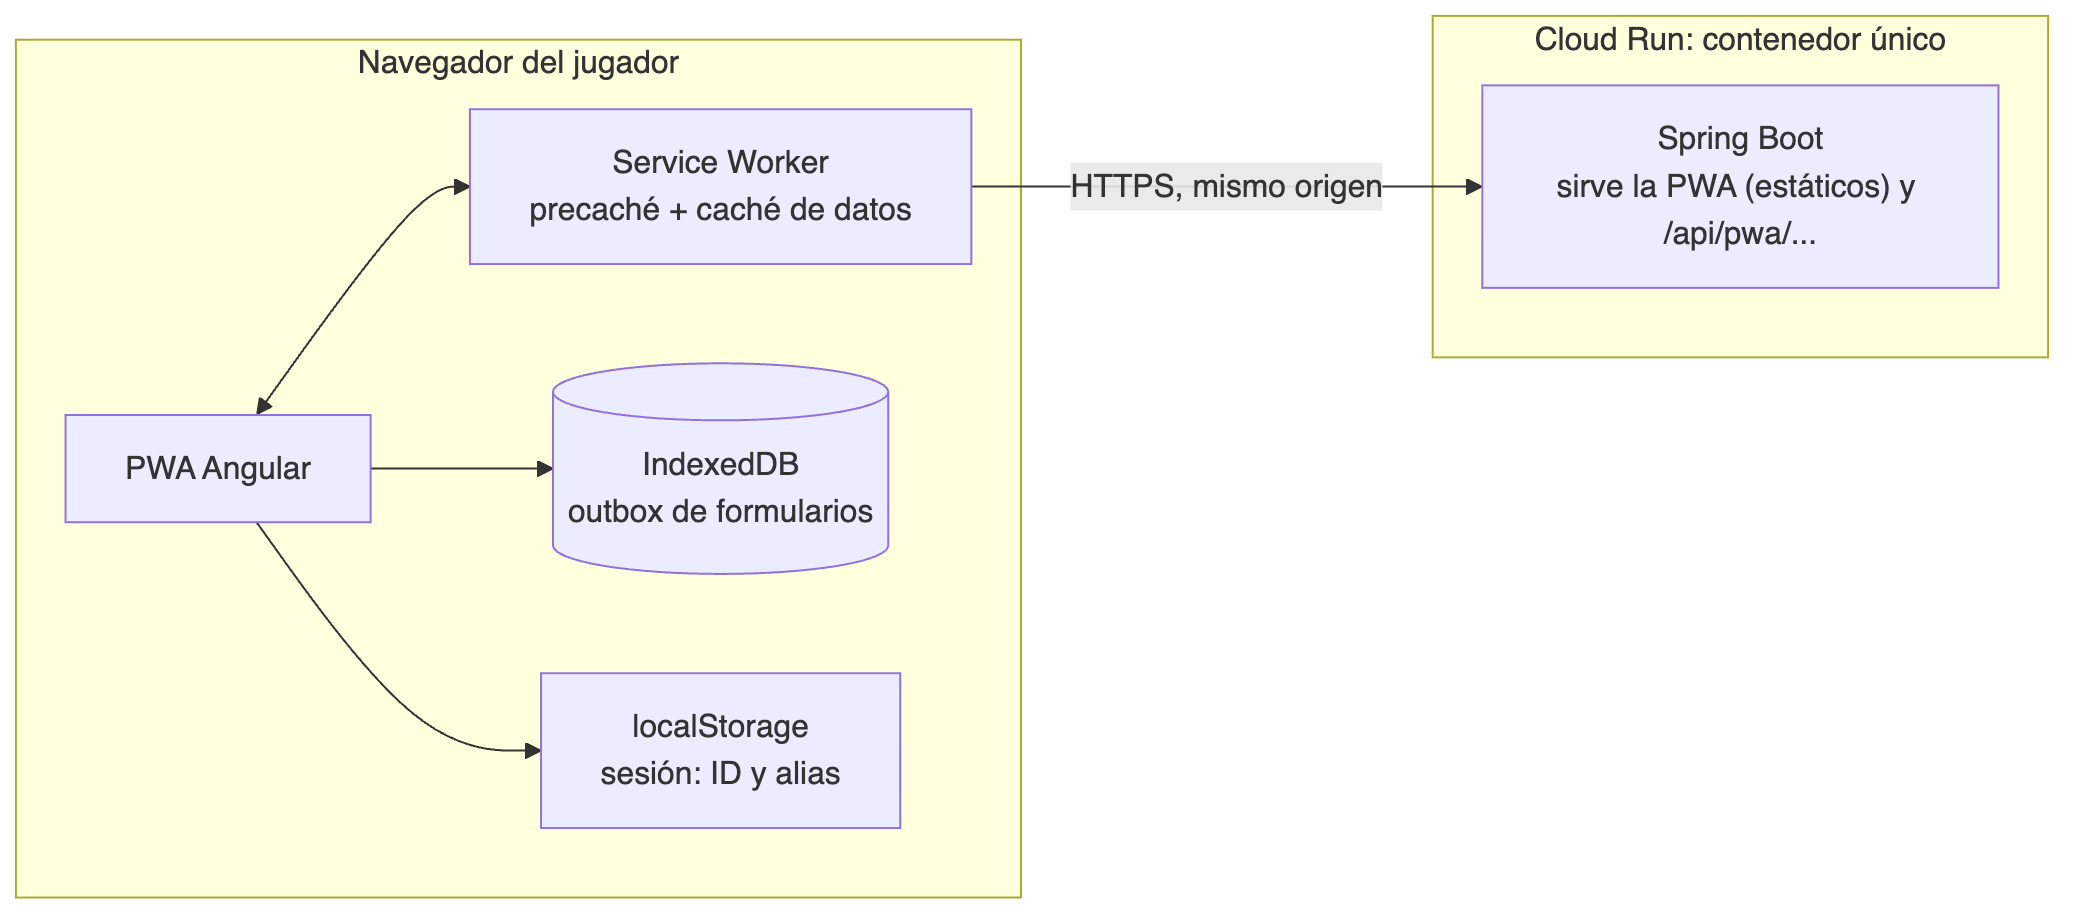
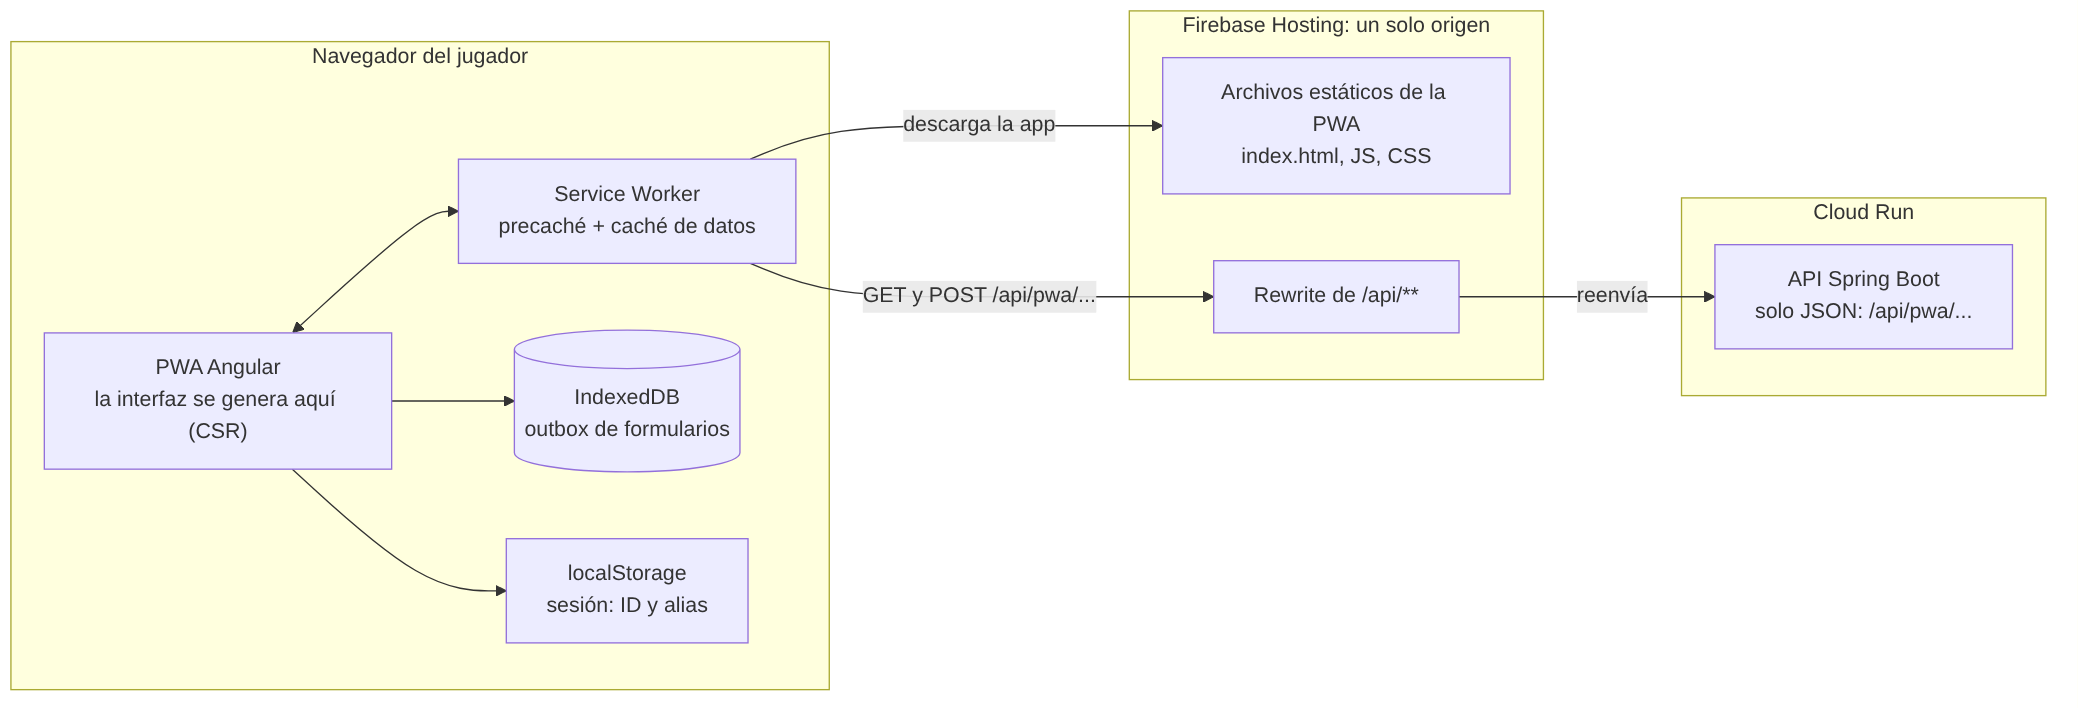
Se hacen actualizaciones de la documentacion de la PWA

diff --git a/README.md b/README.md
@@ -31,8 +31,9 @@ Este documento reúne la **propuesta de diseño** de la PWA y el **estado actual
 | Diseño preproyecto       | Estructura modular (JS/CSS) y diseño adaptativo            | [4.2](#42-capas-del-código) y [8](#8-experiencia-de-usuario-uiux)                                                         |
 | Diseño preproyecto       | Diagramas de la aplicación                                 | [4](#4-arquitectura), [5](#5-modelo-de-datos) y [9](#9-diagramas-de-la-aplicación)                                        |
 | Laboratorio de pruebas 1 | Scripts de carga y limpieza                                | [`sql/`](docs/laboratorio-pruebas/sql)                                                                                    |
-| Laboratorio de pruebas 1 | Consultas antes y después, logs del backend                | [Evidencias](docs/laboratorio-pruebas/README.md#evidencias)                                                               |
-| Laboratorio de pruebas 1 | Interfaz y DevTools (Network, Application, Console)        | [Casos de prueba](docs/laboratorio-pruebas/README.md#casos-de-prueba) y [evidencias](docs/laboratorio-pruebas/evidencias) |
+| Laboratorio de pruebas 1 | Consultas antes y después, logs del backend                | [Evidencias](docs/laboratorio-pruebas/README.md#7-evidencias)                                                             |
+| Laboratorio de pruebas 1 | Interfaz y DevTools (Network, Application, Console)        | [Casos de prueba](docs/laboratorio-pruebas/README.md#6-casos-de-prueba) y [evidencias](docs/laboratorio-pruebas/evidencias) |
+| Laboratorio de pruebas 1 | Requisitos de Integradora: importación de BD, creación y consulta | [Requisitos de Integradora](docs/laboratorio-pruebas/README.md#requisitos-de-proyecta) |
 
 ---
 
@@ -151,7 +152,8 @@ docker run --rm -p 8080:8080 --env-file .env fat-fish-pwa
 
 ![Vista general de la arquitectura](docs/diagramas/arquitectura.png)
 
-- **Un solo origen.** La PWA consume la API con rutas relativas (`/api/pwa/...`), por lo que no requiere CORS. En la propuesta, el mismo contenedor sirve la PWA y la API; en el laboratorio, Nginx cumple ese papel con un proxy hacia la API. En producción, la PWA se aloja en Firebase Hosting y este reenvía `/api/**` a la API en Cloud Run, de modo que el navegador sigue viendo un solo origen ([10.1](#101-despliegue-en-firebase-hosting)).
+- **Renderizado en el cliente (CSR).** La interfaz se genera en el navegador con Angular; la API solo entrega JSON y no sirve archivos de la PWA ([4.4](#44-estrategia-de-renderizado)).
+- **Un solo origen.** La PWA consume la API con rutas relativas (`/api/pwa/...`), por lo que no requiere CORS. Quien entrega la PWA también reenvía `/api` a la API: Firebase Hosting en producción (hacia Cloud Run, [10.1](#101-despliegue-en-firebase-hosting)), Nginx en la imagen de Docker, `scripts/lab-server.mjs` en `npm run lab` y el proxy de `ng serve` en desarrollo ([3](#3-cómo-ejecutarla)). En todos los casos el navegador ve un solo origen.
 - **El Service Worker atiende todas las peticiones** y decide qué responder desde la caché y qué pedir a la red ([7](#7-estrategia-pwa)).
 - **Angular moderno:** componentes *standalone* y *signals* para el estado.
 
@@ -234,6 +236,36 @@ Al elegir un jugador, la pantalla llama a `HistorialFacade.buscar(jugadorId)` y 
 | `enviando`                     | Deshabilita el botón mientras se envía                                                                                                                                                                                                                  |
 | `pendientes`, `envios`         | Cuántas respuestas esperan conexión y su detalle                                                                                                                                                                                                        |
 | `sincronizar()`, `refrescar()` | Se ejecutan solos al abrir la app y al volver la conexión; `refrescar()` actualiza la lista al abrir la pantalla                                                                                                                                        |
+
+### 4.4 Estrategia de renderizado
+
+La PWA se renderiza en el cliente (**CSR**, *client-side rendering*): el navegador recibe un `index.html` casi vacío y Angular genera toda la interfaz con JavaScript. No usa SSR (renderizado en servidor) ni prerenderizado, y la API no genera HTML: solo responde JSON.
+
+| Qué se revisó                             | Qué se encontró                                                                                                                                               |
+|-------------------------------------------|---------------------------------------------------------------------------------------------------------------------------------------------------------------|
+| `angular.json`                            | Constructor `@angular/build:application` solo con la entrada `browser` (`src/main.ts`). No hay opciones `server`, `ssr` ni `prerender`                        |
+| `package.json`                            | Sin `@angular/ssr` ni `@angular/platform-server`                                                                                                              |
+| `src/main.ts` y `src/app/app.config.ts`   | `bootstrapApplication` en el navegador; sin hidratación (`provideClientHydration`) ni rutas de servidor                                                       |
+| `src/app/app.routes.ts`                   | El enrutador de Angular resuelve las rutas en el navegador. La landing va en el bundle inicial y las demás páginas se cargan bajo demanda con `loadComponent` |
+| Resultado de `npx ng build`               | Solo crea `dist/Pwa_FatFish/browser` (sin carpeta `server`). El `<body>` de `index.html` trae únicamente `<app-root></app-root>` y el `<script>` del bundle   |
+| `firebase.json`, Nginx y `lab-server.mjs` | Sirven archivos estáticos y mandan cualquier ruta a `index.html` (Firebase: rewrite `**`; Nginx: `try_files`)                                                 |
+
+**Dónde se genera la interfaz.** Todo ocurre en el navegador:
+
+1. Firebase Hosting (producción), Nginx (Docker) o `lab-server.mjs` (laboratorio) entregan `index.html` y los archivos `.js` y `.css`. Desde la primera visita, el Service Worker los guarda en la precaché ([7.2](#72-service-worker-y-caché)).
+2. Angular arranca con `bootstrapApplication`, el enrutador resuelve la URL y carga la página que corresponde.
+3. La página pide los datos a su fachada. El repositorio HTTP hace un `GET` o un `POST` a `/api/pwa/...` con `HttpClient` y recibe JSON. El Service Worker responde con la red o, sin conexión, con la última copia guardada ([7.3](#73-sin-conexión)).
+4. El repositorio convierte el DTO en un modelo del dominio, la fachada lo guarda en *signals* y la plantilla de la página pinta la pantalla ([6.2](#62-de-la-respuesta-a-la-lista-en-pantalla)).
+
+La API solo participa en el paso 3: devuelve JSON y no tiene plantillas HTML ni archivos estáticos. Su contrato está en el [README de la API](https://github.com/Anuma-Games/fat-fish-api#endpoints) y el recorrido por capas, en [4.2](#42-capas-del-código).
+
+Detalles de esta configuración:
+
+- El build de producción incrusta el CSS crítico en `index.html` (Beasties). Eso no es prerenderizado: el contenido de las pantallas sigue sin estar en el HTML.
+- Sin JavaScript solo se ve el aviso de `<noscript>`.
+- El título de cada ruta (`title` en `app.routes.ts`) lo pone el enrutador en el navegador. La descripción y las etiquetas Open Graph de `index.html` son las de la landing para cualquier ruta, porque quien lee solo el HTML no ejecuta Angular.
+
+Explicación breve de cómo trabajan la PWA y la API, por separado y juntas: [`docs/pwa-y-api.md`](docs/pwa-y-api.md).
 
 ---
 

diff --git a/docs/pwa-y-api.md b/docs/pwa-y-api.md
@@ -1,0 +1,58 @@
+# La PWA y la API de Fat Fish: renderizado e interacción
+
+**Ticket:** FF-170. **Revisado:** 2026-11-22, contra `angular.json`, `app.config.ts`, `app.routes.ts`, `firebase.json`, el Nginx de Docker, `scripts/lab-server.mjs`, los controladores de `fat-fish-api` y un `npx ng build` limpio.
+
+Este documento resume cómo trabaja cada pieza por separado y cómo se comunican. El detalle está en el [README de la PWA](../README.md#44-estrategia-de-renderizado) y en el [README de la API](https://github.com/Anuma-Games/fat-fish-api#readme); aquí no se repite.
+
+## En una frase
+
+La **PWA** es una aplicación Angular que se renderiza en el navegador (CSR) y la **API** es un servicio Spring Boot que solo responde JSON. La PWA no genera datos y la API no genera pantallas.
+
+![Arquitectura de la PWA y la API](diagramas/arquitectura.png)
+
+## Cada una por separado
+
+### PWA (`fat-fish-pwa`)
+
+- **Qué es:** Angular con componentes *standalone* y *signals*, un Service Worker y un manifiesto de aplicación web.
+- **Renderizado:** solo en el cliente (CSR). No hay SSR ni prerenderizado: `angular.json` solo define la entrada `browser`, el build crea únicamente `dist/Pwa_FatFish/browser` y el `index.html` compilado trae `<app-root></app-root>` vacío. Es una aplicación de una sola página: cualquier ruta (`/perfil`, `/ranking`...) devuelve el mismo `index.html` y el enrutador de Angular decide qué pantalla pintar.
+- **Dónde vive:** como archivos estáticos en Firebase Hosting (`fat-fish-511723.web.app`). Una vez descargada, el Service Worker la guarda para abrirla sin conexión.
+- **Qué hace:** muestra el expediente del jugador, el ranking mundial y la búsqueda, y envía retroalimentación y la encuesta anónima. No registra jugadores ni partidas, no maneja contraseñas y no permite jugar.
+- **Cómo se organiza:** capas `presentation → application → domain ← infrastructure`. Las pantallas solo hablan con las fachadas; los repositorios HTTP son los únicos que conocen la API.
+
+### API (`fat-fish-api`)
+
+- **Qué es:** Spring Boot con Java, PostgreSQL y migraciones de Flyway. Es el único punto de contacto entre el juego, la PWA y la app móvil.
+- **Qué entrega:** solo JSON (`@RestController`; no hay plantillas ni archivos estáticos). No configura CORS porque la PWA la llama desde su mismo origen.
+- **Dos grupos de endpoints:** `/api/juego/**` (el juego: registro, sesión, contraseña y partidas, con el token del jugador) y `/api/pwa/**` (la PWA: lectura de datos y envío de opiniones).
+- **Dónde vive:** en Cloud Run, con Cloud SQL como base de datos.
+- **Controles:** la cabecera `X-Api-Key` identifica al cliente, `Idempotency-Key` evita guardar un envío dos veces y los endpoints sin token tienen límite de peticiones por IP.
+
+## Cómo interactúan
+
+1. El navegador pide la PWA a Firebase Hosting y recibe `index.html`, JS y CSS. Angular arranca y pinta la pantalla.
+2. Cuando una pantalla necesita datos, su fachada pide a un repositorio que haga la petición a una ruta relativa (`/api/pwa/...`). El interceptor de Angular agrega `X-Api-Key`.
+3. Firebase Hosting reenvía todo `/api/**` al servicio `fat-fish-api` de Cloud Run. Para el navegador sigue siendo un solo origen.
+4. La API valida la petición, consulta PostgreSQL y responde JSON (fechas ISO-8601 en UTC, campos en español).
+5. El repositorio convierte el JSON en un modelo, la fachada lo guarda en una *signal* y la pantalla se vuelve a pintar. Si la API falla o no hay red, la fachada lo traduce a un estado (`ERROR`, `SIN_RED`, `DESDE_CACHE`...) y la pantalla muestra el aviso que corresponde.
+
+| Pantalla de la PWA                 | Petición a la API                                       | Sin conexión                                   |
+|------------------------------------|---------------------------------------------------------|------------------------------------------------|
+| Búsqueda (`/acceso`)               | `GET /api/pwa/jugadores?busqueda=`                      | Repite búsquedas del último día                |
+| Expediente (`/perfil`)             | `GET /api/pwa/perfil?id=` y `GET /api/pwa/partidas?id=` | Última copia guardada (hasta 7 días)           |
+| Ranking (`/ranking`)               | `GET /api/pwa/ranking?pagina=&jugadorId=`               | Última copia guardada (hasta 7 días)           |
+| Retroalimentación (`/opinion/...`) | `POST /api/pwa/retroalimentacion`                       | Queda en el outbox y se envía al volver la red |
+| Encuesta (`/opinion/encuesta`)     | `POST /api/pwa/encuesta`                                | Queda en el outbox y se envía al volver la red |
+
+### Quién entrega la PWA y reenvía `/api` en cada entorno
+
+| Entorno                     | Entrega la PWA                  | Reenvía `/api` a la API                              |
+|-----------------------------|---------------------------------|------------------------------------------------------|
+| Producción                  | Firebase Hosting                | Rewrite de `firebase.json` hacia Cloud Run           |
+| Docker Compose              | Nginx (puerto 8080)             | `proxy_pass` de Nginx hacia el contenedor `api`      |
+| Laboratorio (`npm run lab`) | `scripts/lab-server.mjs`        | El mismo servidor, hacia la API local o de Cloud Run |
+| Desarrollo (`npm start`)    | `ng serve` (sin Service Worker) | `proxy.conf.json` hacia `localhost:8080`             |
+
+## Cuándo actualizar este documento
+
+Cuando cambie el modo de renderizado o de despliegue (`angular.json`, `firebase.json`, Nginx), o cuando la API deje de ser solo JSON. En el mismo Pull Request se actualizan la sección 4.4 del README de la PWA y los diagramas `arquitectura` y `contexto`.
